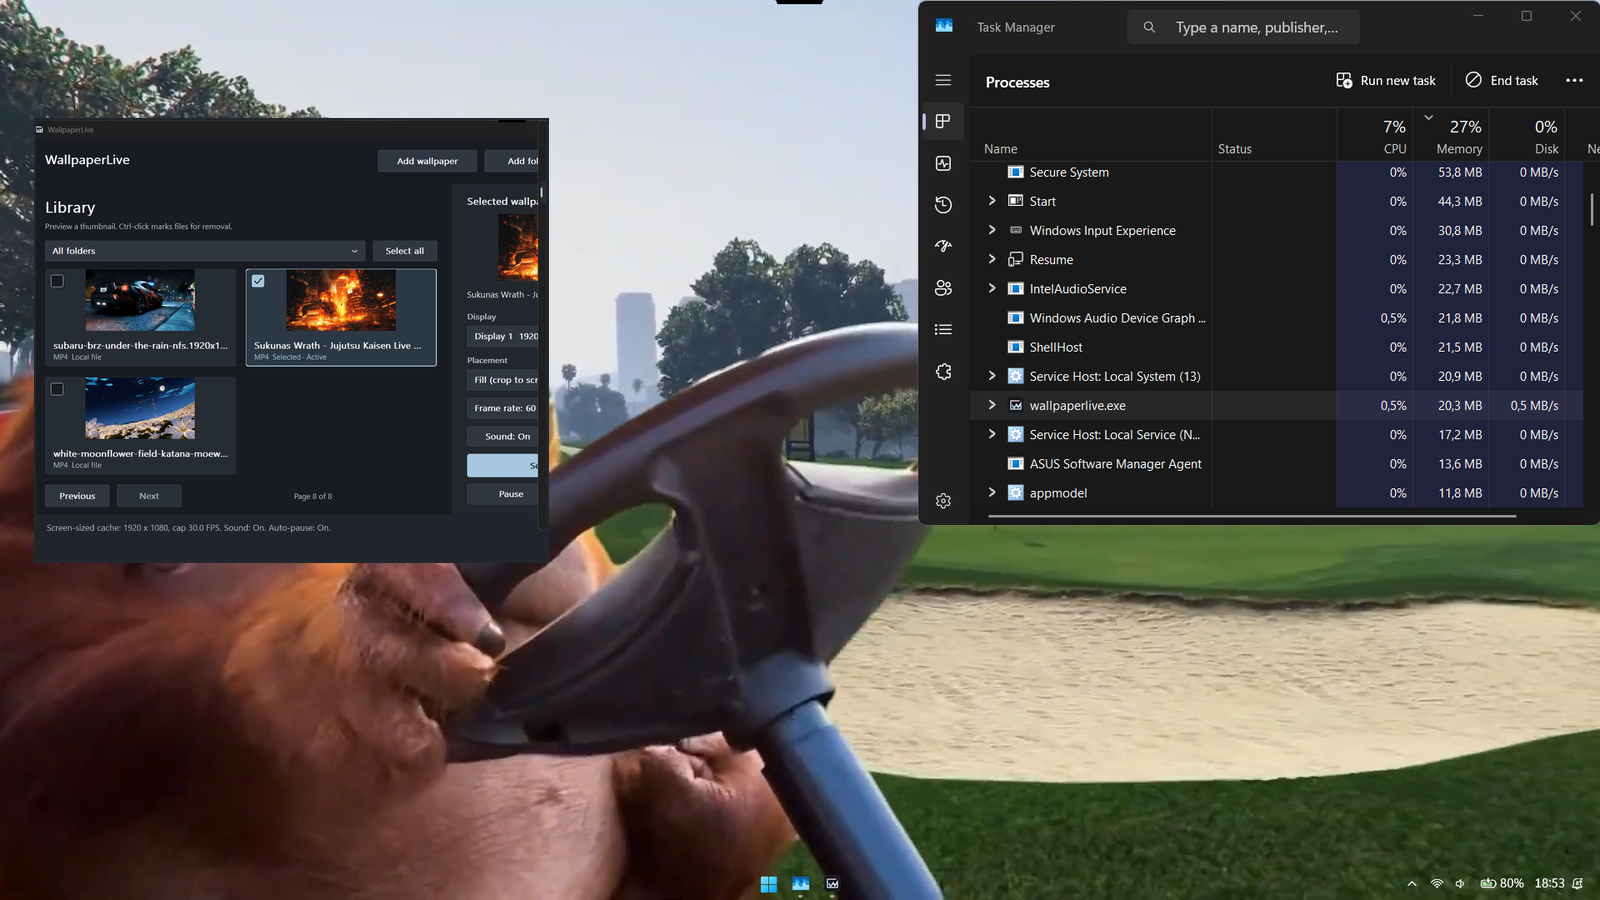
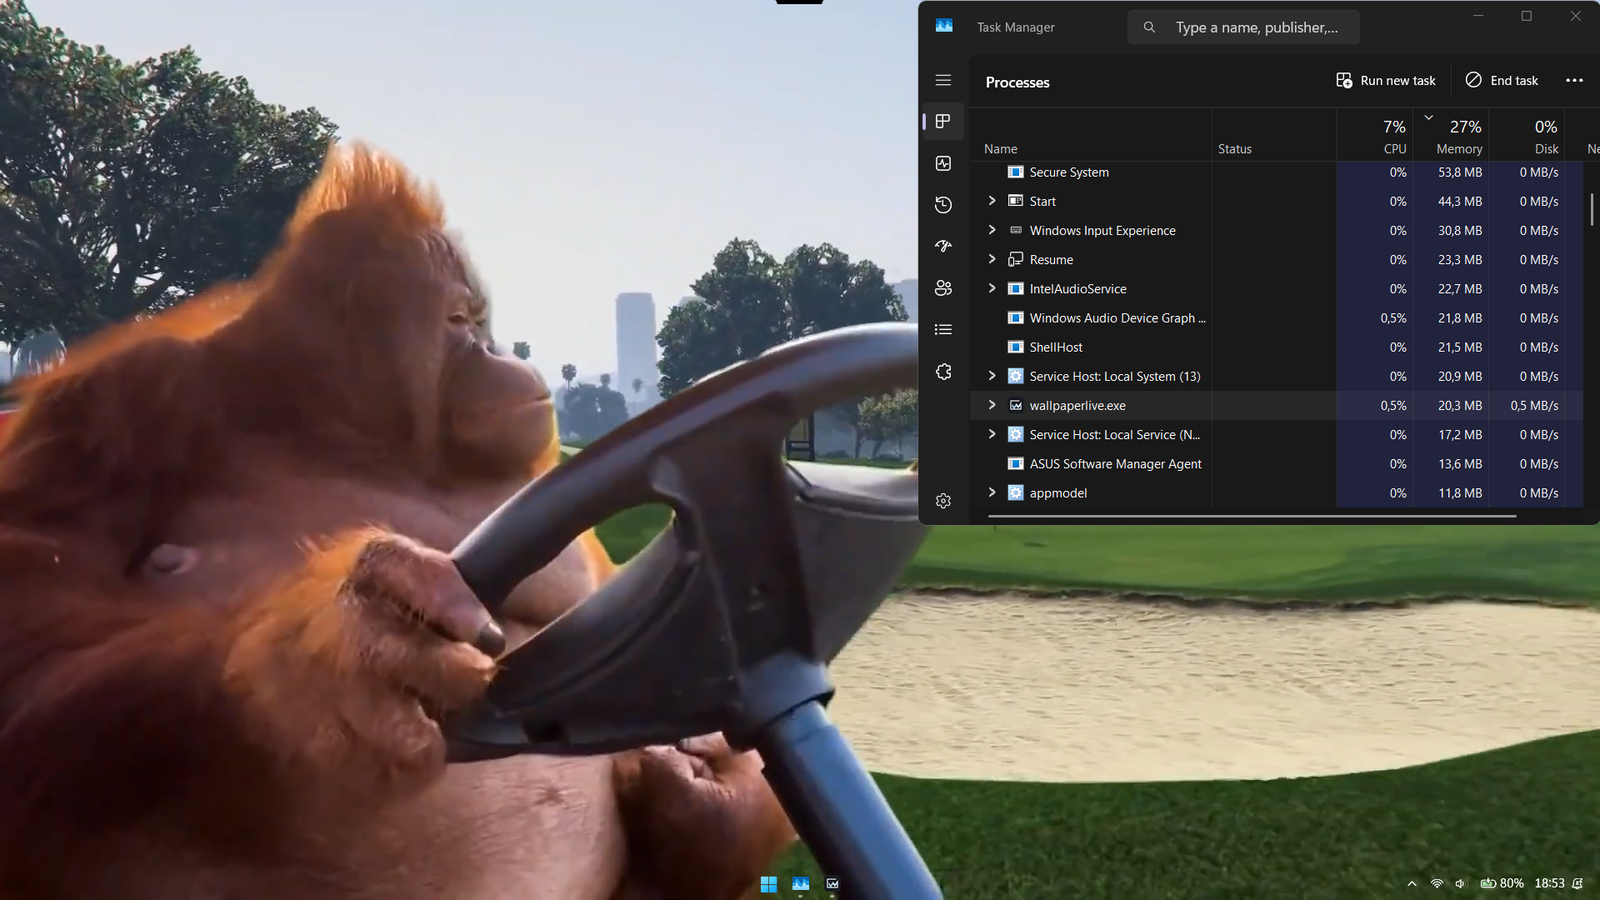
docs: fix auto-pause crop and use clean desktop preview without inset

Changed region(s): [[0.0, 0.1244, 0.3438, 0.6533]]

diff --git a/README.md b/README.md
@@ -25,10 +25,10 @@ WallpaperLive plays trusted local videos, GIFs and images on one display you cho
 ## Preview
 
 <p align="center">
-  <img src="assets/screenshots/preview-v0.1.5.png" width="1200" alt="WallpaperLive playing a video on a Windows desktop, with the native thumbnail library shown as a separate inset">
+  <img src="assets/screenshots/preview-v0.1.5.png" width="1200" alt="WallpaperLive playing a live video wallpaper on a Windows desktop with Task Manager showing 20.3 MB memory usage">
 </p>
 
-*Real v0.1.5 screenshots supplied by the project author on 8 November 2026. The app inset is composed from a separate capture, not an overlay added by WallpaperLive. Wallpaper artwork belongs to its respective owners; no media is included in the download.*
+*Real v0.1.5 desktop capture supplied by the project author on 8 November 2026, showing active live wallpaper playback. Wallpaper artwork belongs to its respective owners; no media is included in the download.*
 
 <details>
 <summary>View the native app at full size</summary>

diff --git a/assets/screenshots/SOURCES.md b/assets/screenshots/SOURCES.md
@@ -19,7 +19,7 @@ Copies retain the supplied attachment bytes. SHA256 values below identify the no
 
 Pillow composes these figures using the original captures. Segoe UI labels match the app's Windows typography; no screenshot values or app states are synthesized.
 
-- [preview-v0.1.5.png](preview-v0.1.5.png): desktop capture resized to 1600 × 900, with a separate app capture inset.
+- [preview-v0.1.5.png](preview-v0.1.5.png): desktop capture resized to 1600 × 900 without synthetic overlays.
 - [cache-comparison-v0.1.5.png](cache-comparison-v0.1.5.png): complete preparation and completion captures resized side by side; annotations repeat the visible process values. Preparation groups the app and worker (348.9 MB); completion shows the app alone (43.1 MB).
 - [resource-use-v0.1.5.png](resource-use-v0.1.5.png): Task Manager headers and selected app rows cropped and arranged side by side: tray playback (20.3 MB / 0.5% CPU) and auto-pause (4.5 MB / 0% CPU).
 
